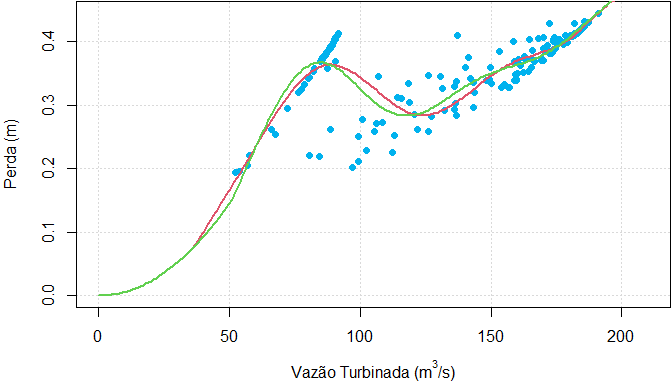
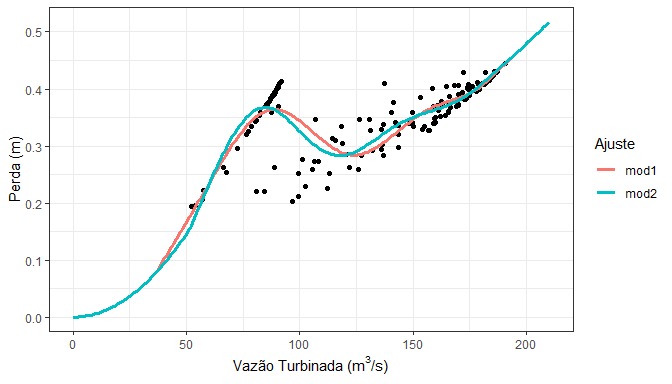
Atualiza README com novos plots

diff --git a/README.md b/README.md
@@ -33,9 +33,8 @@ remotes::install_github("lkhenayfis/gtdp-perdaprodvar", build_vignettes = TRUE)
 
 Abaixo esta um trecho de codigo exemplificando de forma simplificada o
 uso das funcionalidades contidas neste pacote, com respeito apenas à
-modelagem de perdas. Um manual de uso pode ser acessado através de
-`vignette("perdaprodvar")` e mais detalhes acerca das funcoes se
-encontram em suas respectivas paginas de ajuda.
+modelagem de perdas. Mais detalhes acerca das funcoes se encontram em
+suas respectivas paginas de ajuda.
 
 ``` r
 library(perdaprodvar)
@@ -82,9 +81,7 @@ dado_semanal <- agregasemana(dummydata) # dummydata e um dado embutido no pacote
 mod1 <- fitgam_perda(dado_semanal, ns.vazao = 7, ts.vazao = "ps")
 mod2 <- fitgam_perda(dado_semanal, ns.vazao = 7, ts.vazao = "tp")
 
-par(mar = c(4, 4, .1, .1))
-plot(mod1, legenda = FALSE)
-lines(mod2, col = 3, lwd = 2)
+plot(mod1, mod2)
 ```
 
 <img src="man/figures/README-ajuste_gam-1.png" width="100%" />
@@ -93,9 +90,8 @@ Finalmente, podemos extrair uma grade do modelo ajustado (neste caso com
 50 segmentações)
 
 ``` r
-grade_perda <- extraigrid(mod1, 50)
+grade_perda <- extraigrid(mod1, 15)
 
-par(mar = c(4, 4, .1, .1))
 plot(grade_perda)
 ```
 
